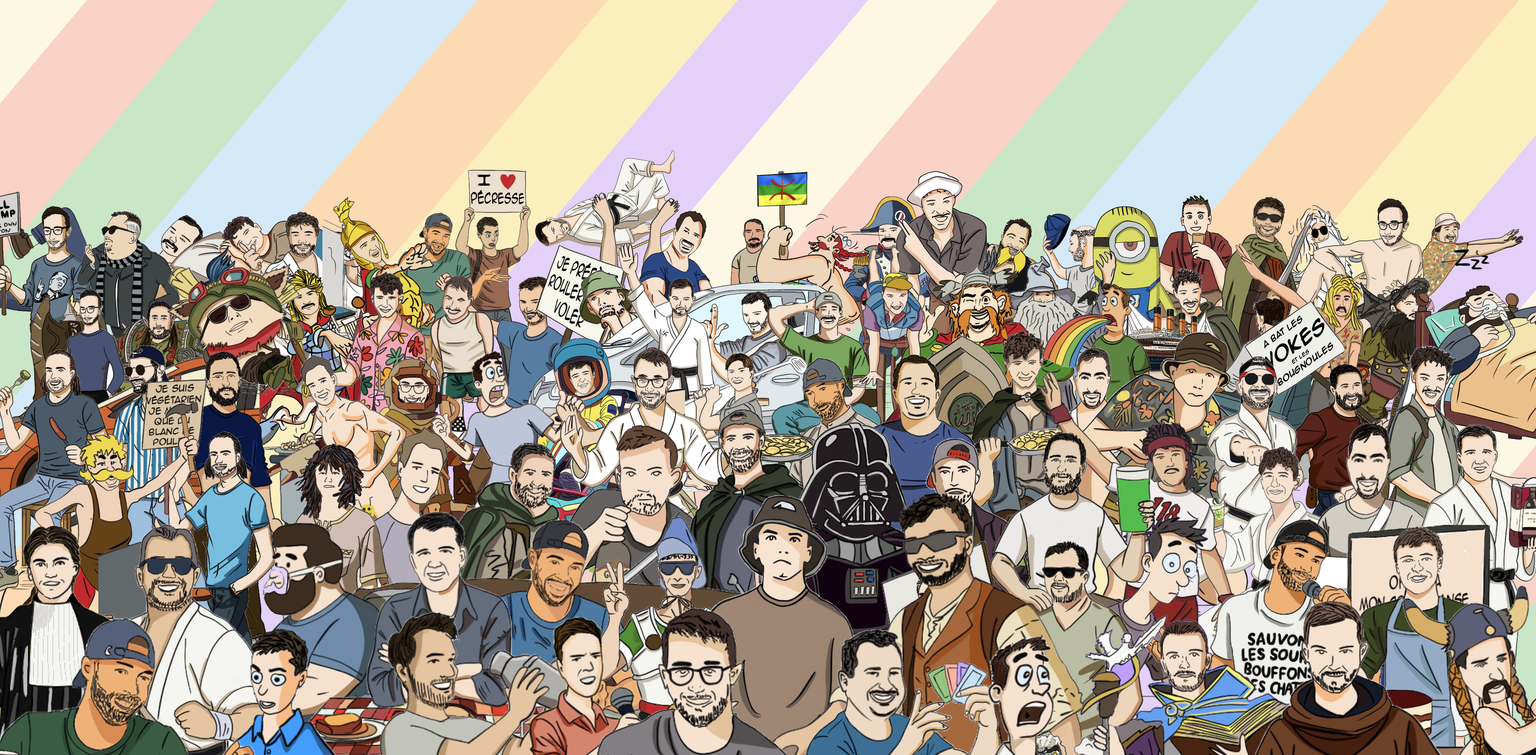
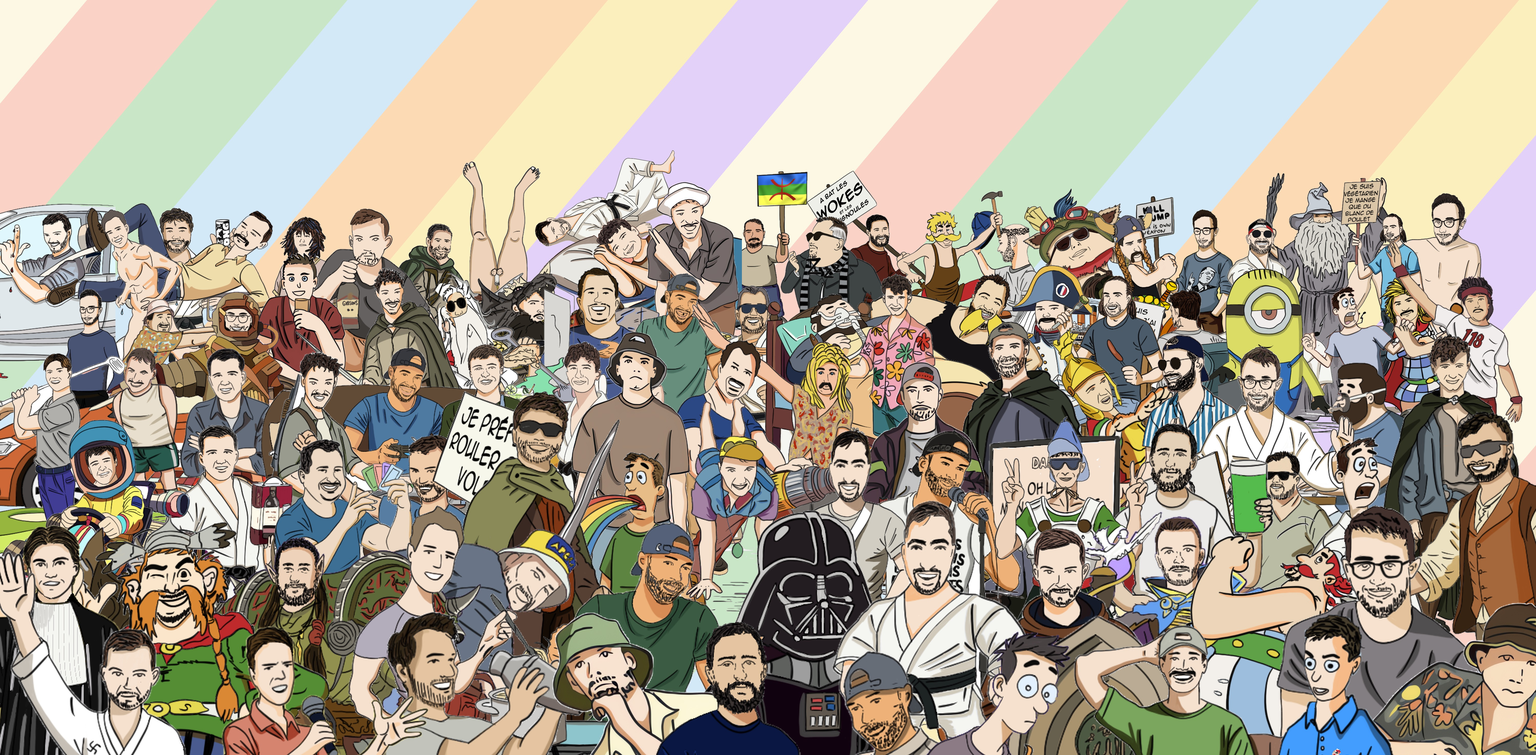
Grande affiche foule : Dim Branquignol tout au fond, jambes visibles jusqu'à la bougie au-dessus de la foule (il n'était plus placé : 97 tenues pour 96 places)

diff --git a/sources/affiches/banniere.py b/sources/affiches/banniere.py
@@ -23,7 +23,8 @@ for i,l in enumerate(looks):
 PIEDS={"dim/branquignol"}
 for l in looks:
     if l["key"] in PIEDS:
-        x0,y0,x1,y1=l["lo"].getbbox(); l["pieds"]=((x0+x1)/2, y0, y0+0.2*(y1-y0))
+        # visible : des pieds jusqu'à la bougie (40 % du dessin) ; caché : sous la corde (55 %)
+        x0,y0,x1,y1=l["lo"].getbbox(); l["pieds"]=((x0+x1)/2, y0, y0+0.4*(y1-y0), y0+0.55*(y1-y0))
 FOND={"dim/branquignol","aubin/botefragile","laurent/branquignol","lenoir/botefragile","fred/branquignol","rene/branquignol","donne/botefragile","guigui/beauf"}
 rnd=random.Random(seed)
 # Emplacements : (rangée, x du visage, y du visage, taille du buste) ; ordre de dessin du fond vers l'avant
@@ -40,24 +41,28 @@ assign=pool[:]          # assign[k] = look dans slots[k] (slots déjà triés pa
 def geom(sl,l):
     s=sl["b"]*l["zoom"]/708
     if "pieds" in l:
-        # le bout des pieds à hauteur des têtes de la rangée, le corps plonge derrière les rangées de devant
-        px,top,_=l["pieds"]
-        return s, int(sl["x"]-px*s), int(sl["y"]-0.45*sl["b"]-top*s)
+        # les jambes dépassent au-dessus des têtes de la rangée, le corps plonge derrière les rangées de devant
+        px,top,_,_=l["pieds"]
+        return s, int(sl["x"]-px*s), int(sl["y"]-0.8*sl["b"]-top*s)
     # on aligne le visage sur l'emplacement (tête à la bonne hauteur dans la rangée)
     fx,fy,_=l["face"]
     return s, int(sl["x"]-fx*s), int(sl["y"]-(fy+0.12*708/l["zoom"])*s)
+def dessin(assign):
+    """Ordre de dessin (indices à partir de 1) : les « pieds » tout au fond, puis les rangées."""
+    ks=list(range(1,min(len(slots),len(assign))+1))
+    return sorted(ks,key=lambda k: "pieds" not in assign[k-1])
 def evaluate(assign):
     lab=Image.new("L",(W//K,H//K),0)
-    G=[]
-    for k,(sl,l) in enumerate(zip(slots,assign),1):
-        s,x,y=geom(sl,l); G.append((s,x,y))
+    G=[geom(sl,l) for sl,l in zip(slots,assign)]
+    for k in dessin(assign):
+        s,x,y=G[k-1]; l=assign[k-1]
         m=l["lo"].resize((max(1,int(708*s/K)),max(1,int(1068*s/K))))
         lab.paste(k,(x//K,y//K,x//K+m.width,y//K+m.height),m)
     lp=lab.load(); pen=0; vis=[]
     for k,(sl,l) in enumerate(zip(slots,assign),1):
         if "pieds" in l:
-            # tout ce qui est sous les pieds doit être caché
-            s,x,y=G[k-1]; lo=l["lo"]; _,haut,bas=l["pieds"]
+            # jambes jusqu'à la bougie visibles, tout ce qui est sous la corde caché
+            s,x,y=G[k-1]; lo=l["lo"]; _,haut,bougie,bas=l["pieds"]
             def visible(w0,w1):
                 tot=v=0
                 for w in range(int(w0),int(w1),6):
@@ -67,7 +72,7 @@ def evaluate(assign):
                         if 0<=xx<W//K and 0<=yy<H//K and lp[xx,yy]==k: v+=1
                 return v/max(tot,1)
             # pieds bien visibles, tout le reste caché
-            pen+=visible(bas,1068)*30+max(0,0.8-visible(haut,bas))*30; vis.append(1.0); continue
+            pen+=visible(bas,1068)*30+max(0,0.9-visible(haut,bougie))*40; vis.append(1.0); continue
         s,x,y=G[k-1]; lo=l["lo"]; fx,fy,r=l["face"]; cx,cy,rr=(x+fx*s)/K,(y+fy*s)/K,r*s/K
         tot=v=0
         for yy in range(int(cy-rr),int(cy+rr)+1):
@@ -86,6 +91,8 @@ def evaluate(assign):
                 la,lb=assign[a],assign[b]
                 if la["slug"]==lb["slug"]: pen+=3
                 if la["family"]==lb["family"]: pen+=1
+    # il y a une tenue de plus que de places : jamais les « pieds » sur la touche
+    pen+=100*sum("pieds" in l for l in assign[len(slots):])
     # décors encombrants : uniquement dans les deux rangées du fond
     for sl,l in zip(slots,assign):
         if l["key"] in FOND and sl["r"]>1: pen+=4
@@ -107,7 +114,8 @@ for k in range(-int(L/band)-2,int(L/band)+3):
     t0=-L/2+k*band; t1=t0+band
     d.polygon([(W/2+dx*t-dy*e, H/2+dy*t+dx*e) for t,e in ((t0,-L),(t0,L),(t1,L),(t1,-L))],fill=cols[k%7])
 canvas=bg.convert("RGBA")
-for (s,x,y),l in zip(G,assign):
+for k in dessin(assign):
+    (s,x,y),l=G[k-1],assign[k-1]
     im=l["im"].resize((int(708*s),int(1068*s)),Image.LANCZOS); canvas.paste(im,(x,y),im)
 canvas.convert("RGB").save(out,quality=92)
 dbg=canvas.copy(); dd=ImageDraw.Draw(dbg)
